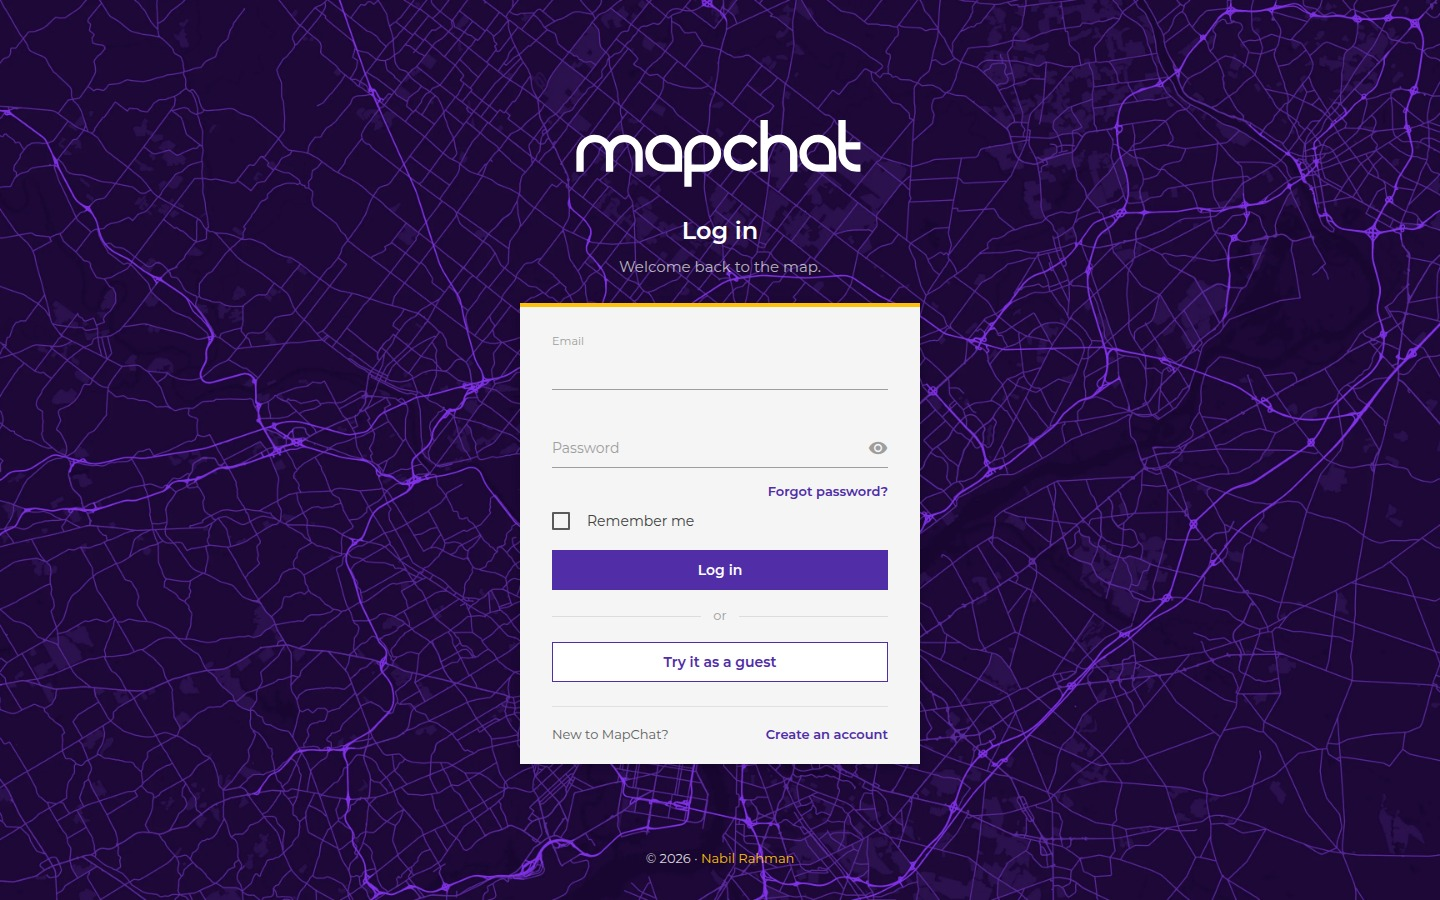
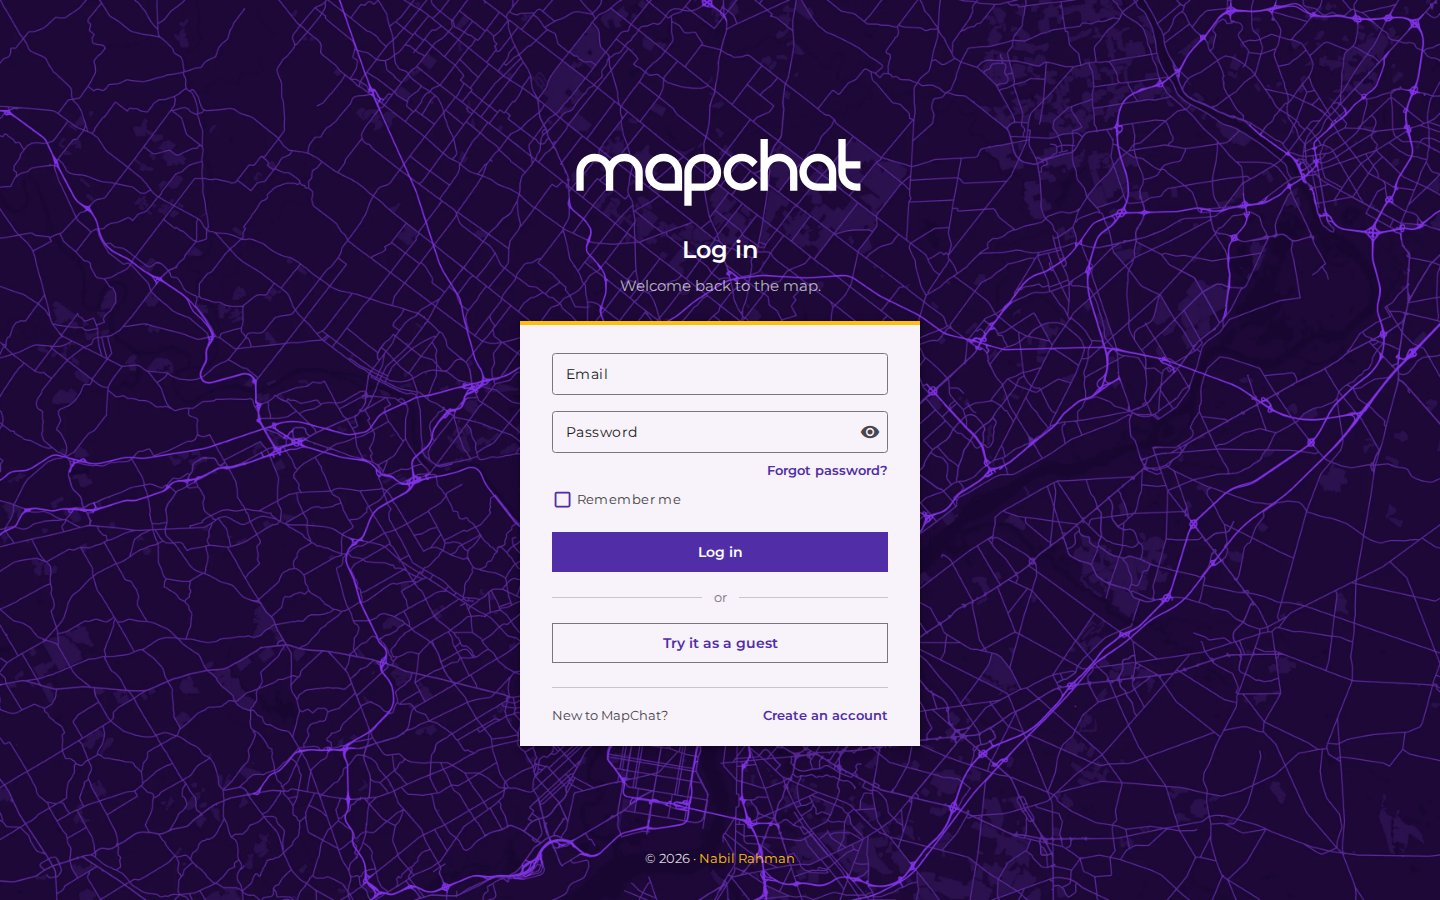
Bring the README up to date with the new front end
New screenshots of the chat, log-in and profile pages; the front end described as Material 3's colours with square corners and scoped Beer CSS for the form fields; the phone map and folding chat among the features; and the line from About about coming back to it in 2026.

diff --git a/README.md b/README.md
@@ -32,6 +32,8 @@ was to understand what a web framework actually does, so instead of using one, I
 wrote my own: the router, controllers, models, views, sessions and login are all
 hand-written PHP.
 
+In 2026 I came back to it to bring parts of it up to date, and I'm still at it.
+
 The [live demo](https://mapchat.swiftsolve.net) runs on free hosting, so the
 first visit after a quiet spell takes about a minute to wake up.
 
@@ -54,6 +56,9 @@ first visit after a quiet spell takes about a minute to wake up.
 - A map with a pin for each person, placed by their IP address at roughly city
   level. Nobody's exact location is ever shown.
 - Anyone can hide their pin and city from the map in their profile.
+- On phones the map starts hidden to give the chat the room. A button shows
+  it above the chat, and the chat can then fold down to its tabs to give the
+  map the whole screen.
 - Visitors can try it as a guest without signing up. Guest accounts and their
   messages are deleted after 24 hours, unless the guest sets an email and
   password in their profile to keep the account.
@@ -70,10 +75,11 @@ first visit after a quiet spell takes about a minute to wake up.
 - **Database:** MySQL, queried with prepared statements to block SQL injection.
 - **Views:** Twig 3 templates, which escape everything users type to block
   cross-site scripting.
-- **Front end:** the site's own CSS, with Beer CSS (scoped, so it styles only
-  the form fields and switches), plain JavaScript with no jQuery, and axios
-  for every request to the server. The chat asks for new messages every
-  second.
+- **Front end:** the site's own CSS, in Material 3's colours and states
+  (generated from MapChat's purple) with square corners, and Beer CSS for
+  the form fields, scoped so it styles nothing else. Plain JavaScript with no
+  jQuery, and axios for every request to the server. The chat asks for new
+  messages every second.
 - **Map:** MapLibre with OpenStreetMap data from OpenFreeMap, styled to match
   MapChat's colours. Browsers without WebGL get OpenStreetMap tiles through
   Leaflet instead, recoloured to the same theme in the browser. No API key is
